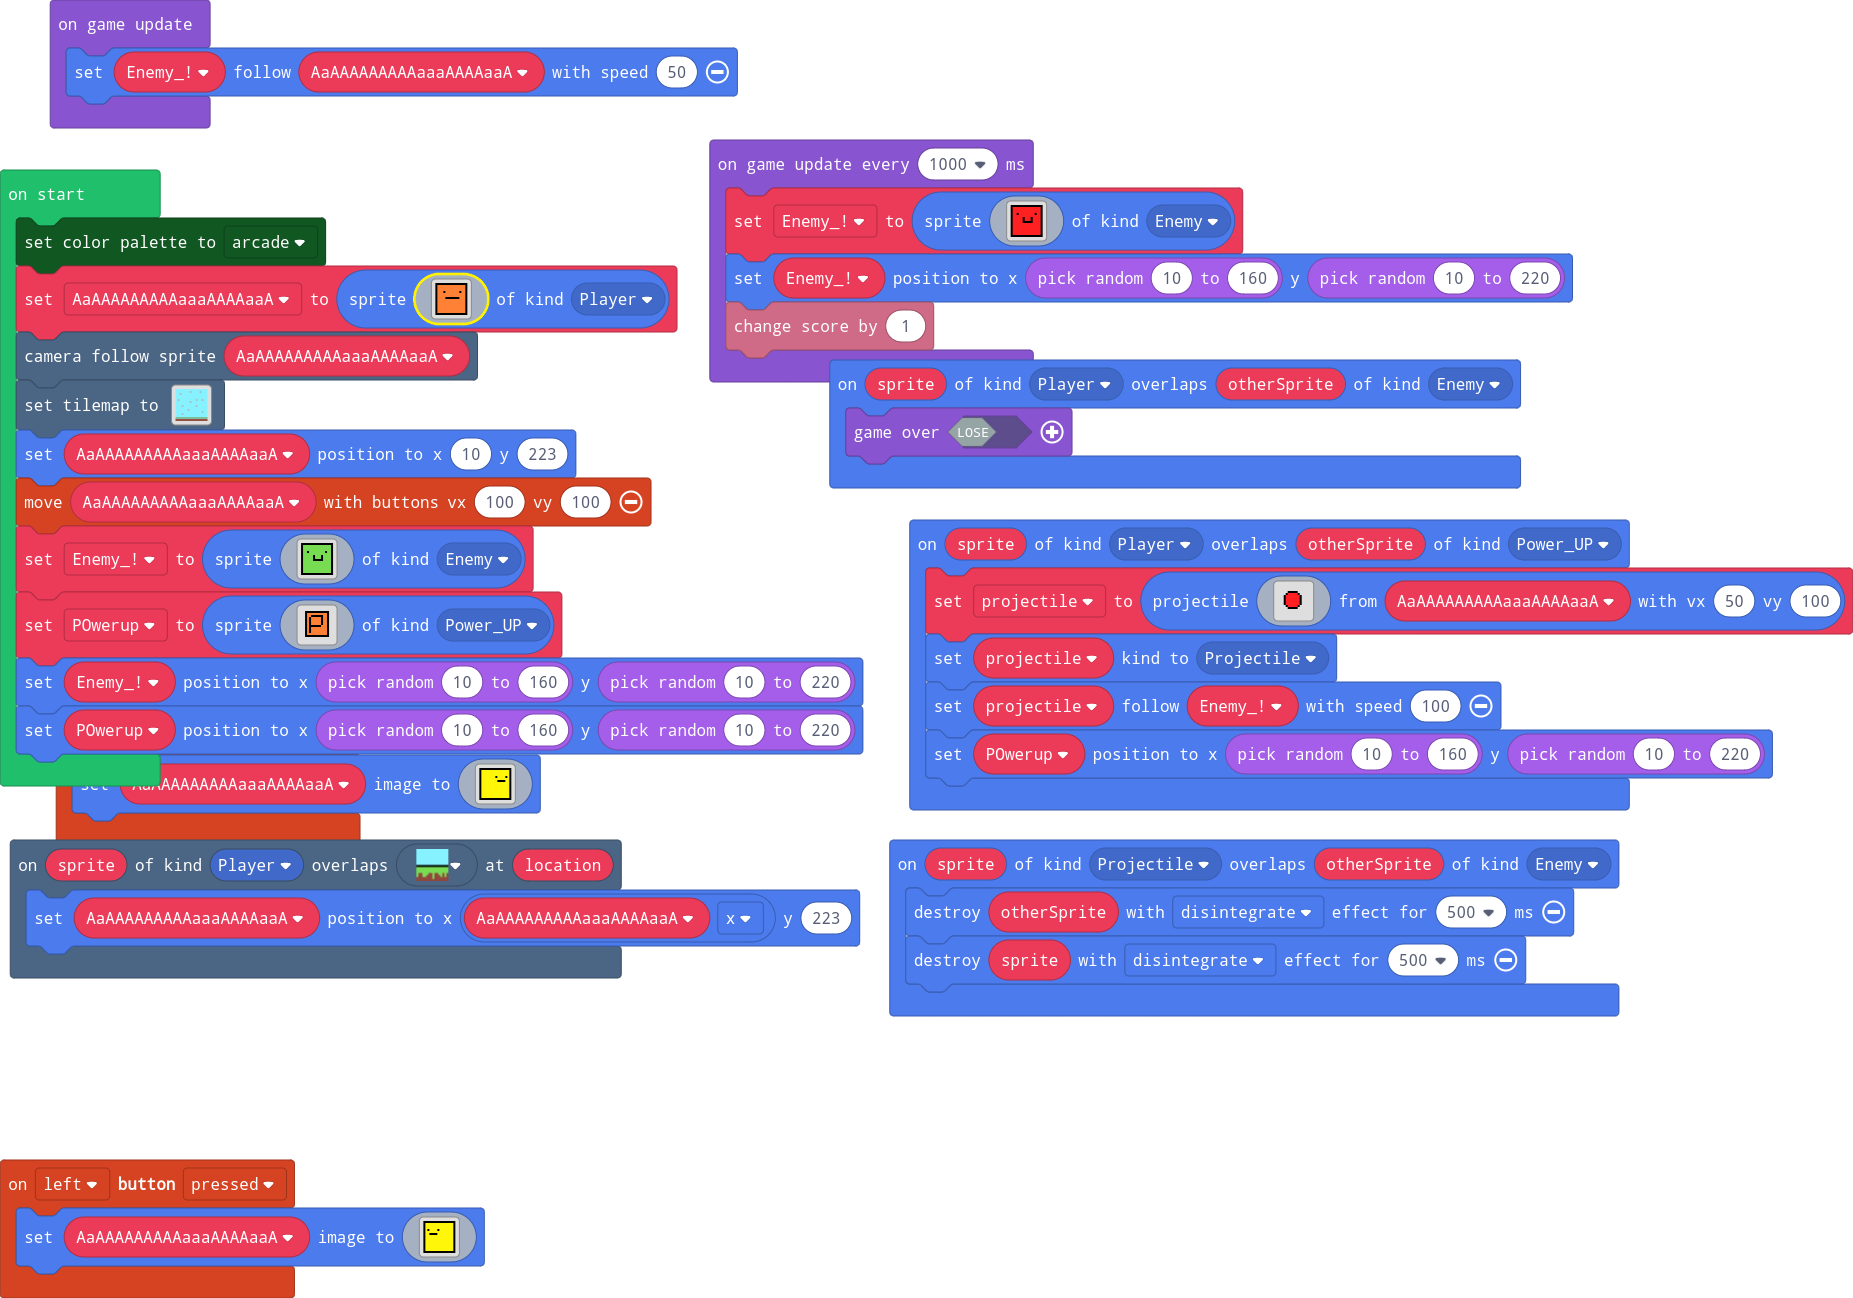
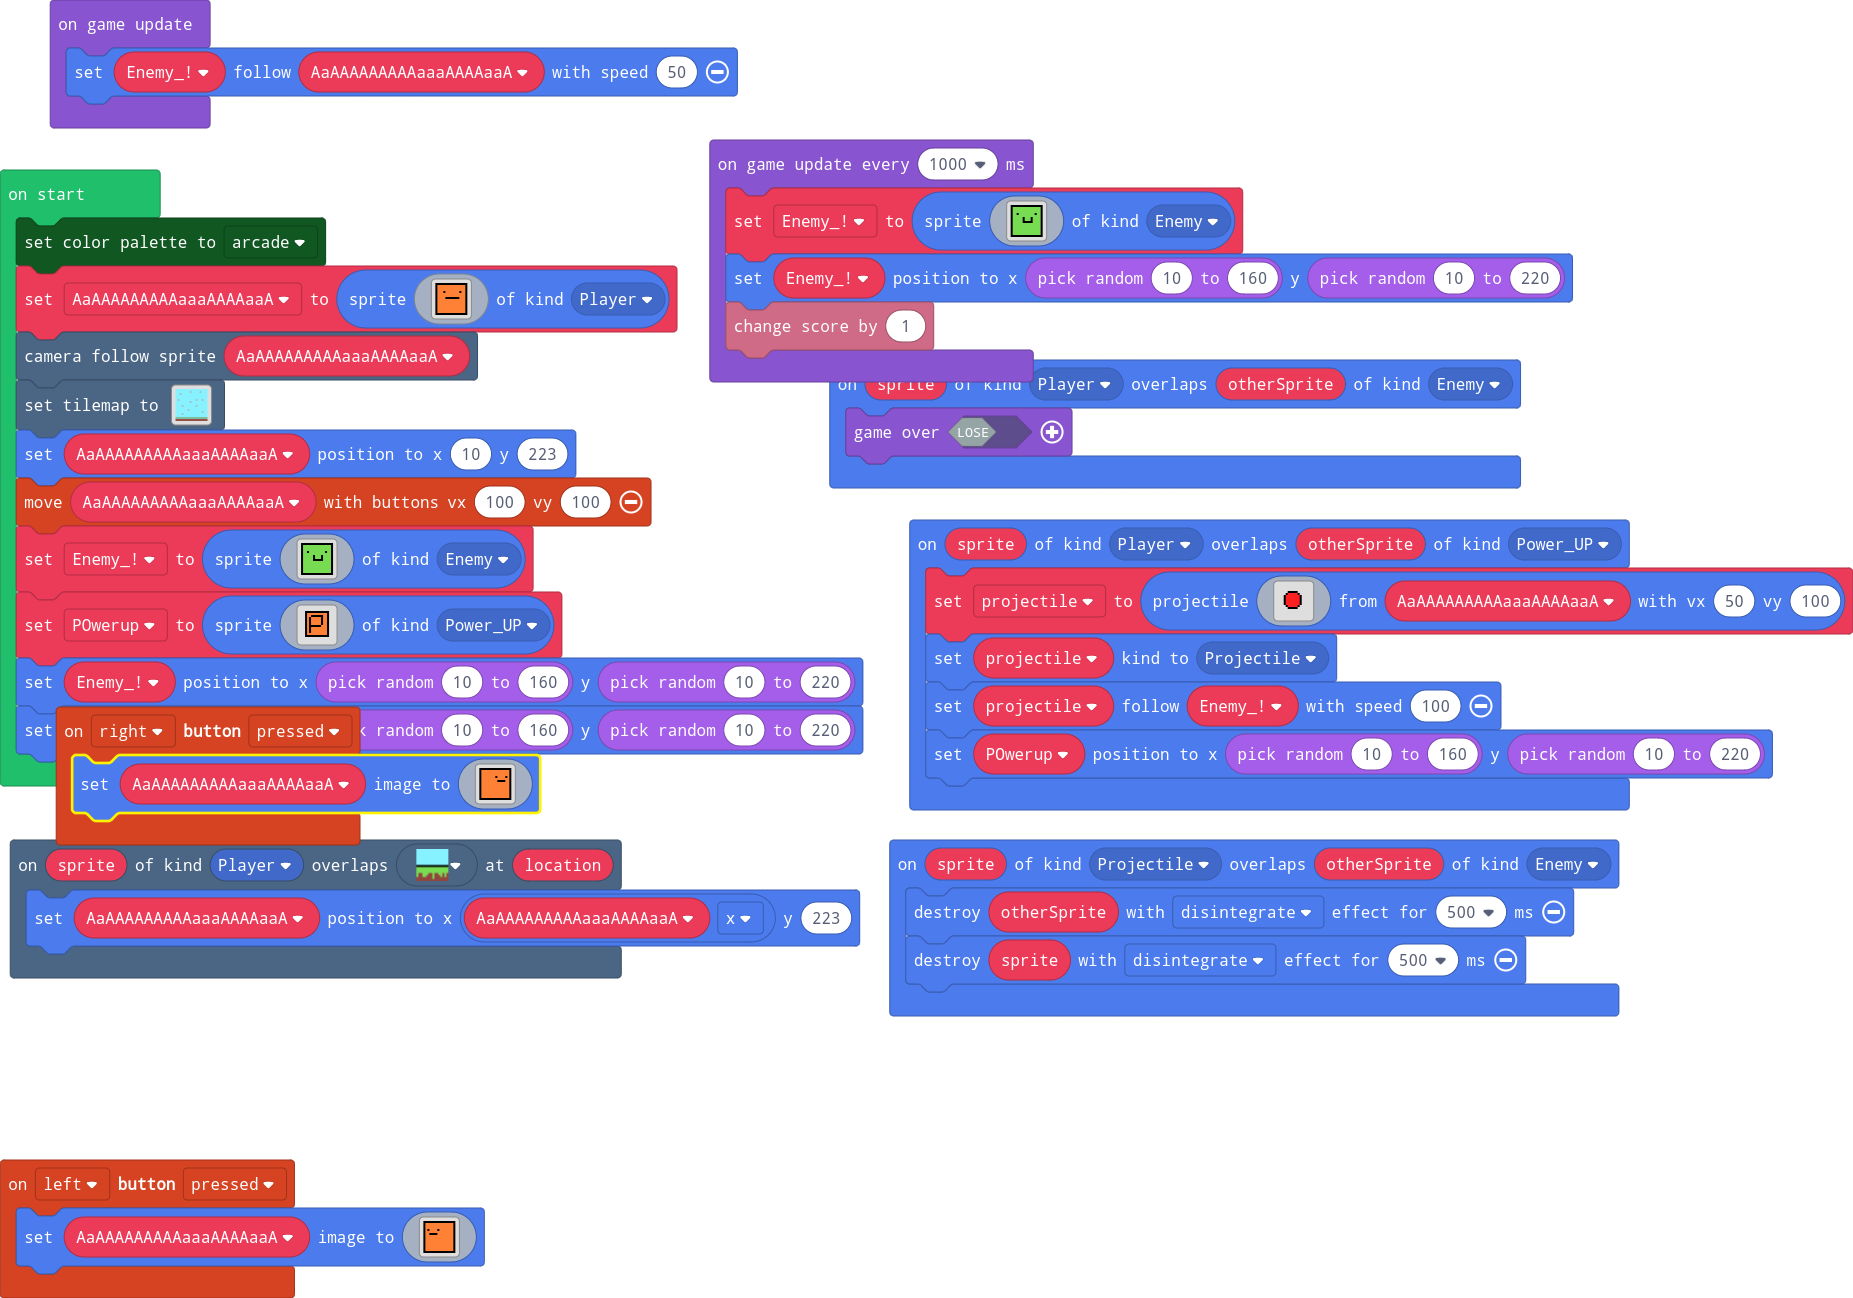
Update main.blocks, main.ts

diff --git a/main.ts b/main.ts
@@ -101,20 +101,20 @@ f f d d d d d d d d d d d d f f
 controller.left.onEvent(ControllerButtonEvent.Pressed, function () {
     AaAAAAAAAAAaaaAAAAaaA.setImage(img`
 f f f f f f f f f f f f f f f f 
-f 5 5 5 5 5 5 5 5 5 5 5 5 5 5 f 
-f 5 5 5 5 5 5 5 5 5 5 5 5 5 5 f 
-f 5 5 5 5 5 5 5 5 5 5 5 5 5 5 f 
-f 5 f 5 5 5 5 f 5 5 5 5 5 5 5 f 
-f 5 5 5 5 5 5 5 5 5 5 5 5 5 5 f 
-f 5 5 f f f f 5 5 5 5 5 5 5 5 f 
-f 5 5 5 5 5 5 5 5 5 5 5 5 5 5 f 
-f 5 5 5 5 5 5 5 5 5 5 5 5 5 5 f 
-f 5 5 5 5 5 5 5 5 5 5 5 5 5 5 f 
-f 5 5 5 5 5 5 5 5 5 5 5 5 5 5 f 
-f 5 5 5 5 5 5 5 5 5 5 5 5 5 5 f 
-f 5 5 5 5 5 5 5 5 5 5 5 5 5 5 f 
-f 5 5 5 5 5 5 5 5 5 5 5 5 5 5 f 
-f 5 5 5 5 5 5 5 5 5 5 5 5 5 5 f 
+f 4 4 4 4 4 4 4 4 4 4 4 4 4 4 f 
+f 4 4 4 4 4 4 4 4 4 4 4 4 4 4 f 
+f 4 4 4 4 4 4 4 4 4 4 4 4 4 4 f 
+f 4 f 4 4 4 4 f 4 4 4 4 4 4 4 f 
+f 4 4 4 4 4 4 4 4 4 4 4 4 4 4 f 
+f 4 4 f f f f 4 4 4 4 4 4 4 4 f 
+f 4 4 4 4 4 4 4 4 4 4 4 4 4 4 f 
+f 4 4 4 4 4 4 4 4 4 4 4 4 4 4 f 
+f 4 4 4 4 4 4 4 4 4 4 4 4 4 4 f 
+f 4 4 4 4 4 4 4 4 4 4 4 4 4 4 f 
+f 4 4 4 4 4 4 4 4 4 4 4 4 4 4 f 
+f 4 4 4 4 4 4 4 4 4 4 4 4 4 4 f 
+f 4 4 4 4 4 4 4 4 4 4 4 4 4 4 f 
+f 4 4 4 4 4 4 4 4 4 4 4 4 4 4 f 
 f f f f f f f f f f f f f f f f 
 `)
 })
@@ -128,20 +128,20 @@ sprites.onOverlap(SpriteKind.Player, SpriteKind.Enemy, function (sprite, otherSp
 controller.right.onEvent(ControllerButtonEvent.Pressed, function () {
     AaAAAAAAAAAaaaAAAAaaA.setImage(img`
 f f f f f f f f f f f f f f f f 
-f 5 5 5 5 5 5 5 5 5 5 5 5 5 5 f 
-f 5 5 5 5 5 5 5 5 5 5 5 5 5 5 f 
-f 5 5 5 5 5 5 5 5 5 5 5 5 5 5 f 
-f 5 5 5 5 5 5 5 f 5 5 5 5 f 5 f 
-f 5 5 5 5 5 5 5 5 5 5 5 5 5 5 f 
-f 5 5 5 5 5 5 5 5 f f f f 5 5 f 
-f 5 5 5 5 5 5 5 5 5 5 5 5 5 5 f 
-f 5 5 5 5 5 5 5 5 5 5 5 5 5 5 f 
-f 5 5 5 5 5 5 5 5 5 5 5 5 5 5 f 
-f 5 5 5 5 5 5 5 5 5 5 5 5 5 5 f 
-f 5 5 5 5 5 5 5 5 5 5 5 5 5 5 f 
-f 5 5 5 5 5 5 5 5 5 5 5 5 5 5 f 
-f 5 5 5 5 5 5 5 5 5 5 5 5 5 5 f 
-f 5 5 5 5 5 5 5 5 5 5 5 5 5 5 f 
+f 4 4 4 4 4 4 4 4 4 4 4 4 4 4 f 
+f 4 4 4 4 4 4 4 4 4 4 4 4 4 4 f 
+f 4 4 4 4 4 4 4 4 4 4 4 4 4 4 f 
+f 4 4 4 4 4 4 4 f 4 4 4 4 f 4 f 
+f 4 4 4 4 4 4 4 4 4 4 4 4 4 4 f 
+f 4 4 4 4 4 4 4 4 f f f f 4 4 f 
+f 4 4 4 4 4 4 4 4 4 4 4 4 4 4 f 
+f 4 4 4 4 4 4 4 4 4 4 4 4 4 4 f 
+f 4 4 4 4 4 4 4 4 4 4 4 4 4 4 f 
+f 4 4 4 4 4 4 4 4 4 4 4 4 4 4 f 
+f 4 4 4 4 4 4 4 4 4 4 4 4 4 4 f 
+f 4 4 4 4 4 4 4 4 4 4 4 4 4 4 f 
+f 4 4 4 4 4 4 4 4 4 4 4 4 4 4 f 
+f 4 4 4 4 4 4 4 4 4 4 4 4 4 4 f 
 f f f f f f f f f f f f f f f f 
 `)
 })
@@ -266,20 +266,20 @@ game.onUpdate(function () {
 game.onUpdateInterval(1000, function () {
     Enemy_ = sprites.create(img`
 f f f f f f f f f f f f f f f f 
-f 2 2 2 2 2 2 2 2 2 2 2 2 2 2 f 
-f 2 2 2 2 2 2 2 2 2 2 2 2 2 2 f 
-f 2 2 2 2 2 2 2 2 2 2 2 2 2 2 f 
-f 2 2 f 2 2 2 2 2 2 2 2 f 2 2 f 
-f 2 2 2 2 2 2 2 2 2 2 2 2 2 2 f 
-f 2 2 2 2 2 f 2 2 2 f 2 2 2 2 f 
-f 2 2 2 2 2 f 2 2 2 f 2 2 2 2 f 
-f 2 2 2 2 2 f f f f f 2 2 2 2 f 
-f 2 2 2 2 2 2 2 2 2 2 2 2 2 2 f 
-f 2 2 2 2 2 2 2 2 2 2 2 2 2 2 f 
-f 2 2 2 2 2 2 2 2 2 2 2 2 2 2 f 
-f 2 2 2 2 2 2 2 2 2 2 2 2 2 2 f 
-f 2 2 2 2 2 2 2 2 2 2 2 2 2 2 f 
-f 2 2 2 2 2 2 2 2 2 2 2 2 2 2 f 
+f 7 7 7 7 7 7 7 7 7 7 7 7 7 7 f 
+f 7 7 7 7 7 7 7 7 7 7 7 7 7 7 f 
+f 7 7 7 7 7 7 7 7 7 7 7 7 7 7 f 
+f 7 7 f 7 7 7 7 7 7 7 7 f 7 7 f 
+f 7 7 7 7 7 7 7 7 7 7 7 7 7 7 f 
+f 7 7 7 7 7 f 7 7 7 f 7 7 7 7 f 
+f 7 7 7 7 7 f 7 7 7 f 7 7 7 7 f 
+f 7 7 7 7 7 f f f f f 7 7 7 7 f 
+f 7 7 7 7 7 7 7 7 7 7 7 7 7 7 f 
+f 7 7 7 7 7 7 7 7 7 7 7 7 7 7 f 
+f 7 7 7 7 7 7 7 7 7 7 7 7 7 7 f 
+f 7 7 7 7 7 7 7 7 7 7 7 7 7 7 f 
+f 7 7 7 7 7 7 7 7 7 7 7 7 7 7 f 
+f 7 7 7 7 7 7 7 7 7 7 7 7 7 7 f 
 f f f f f f f f f f f f f f f f 
 `, SpriteKind.Enemy)
     Enemy_.setPosition(Math.randomRange(10, 160), Math.randomRange(10, 220))
